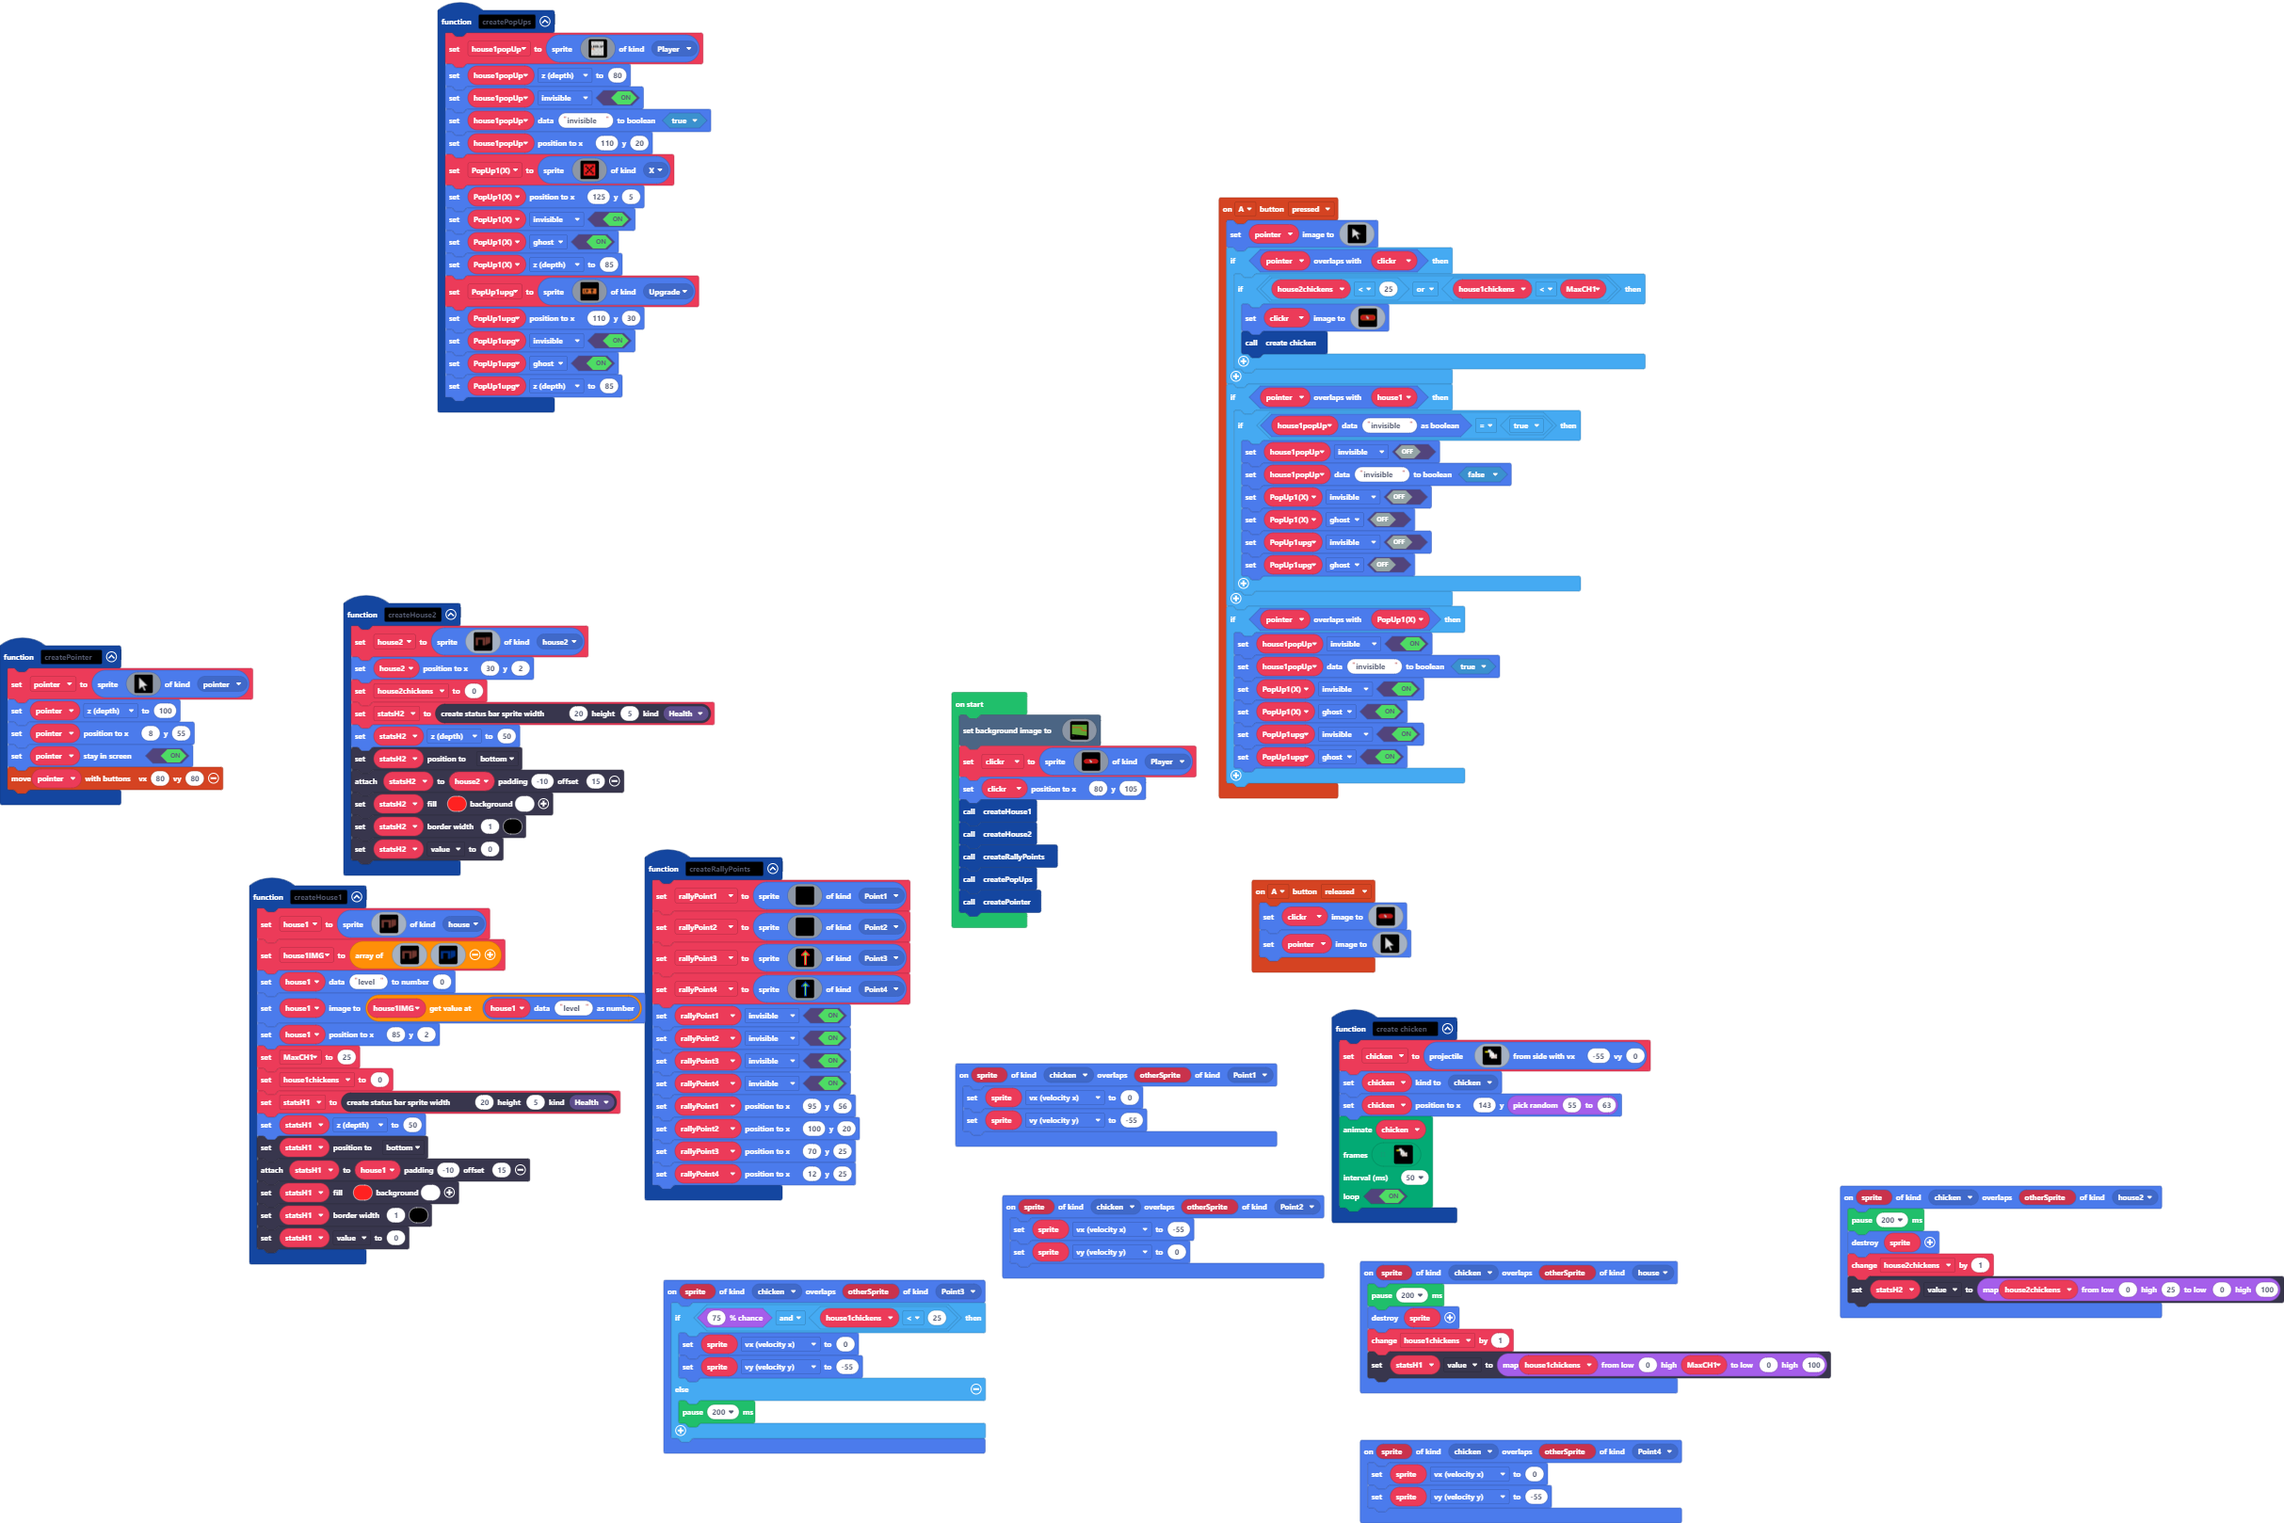
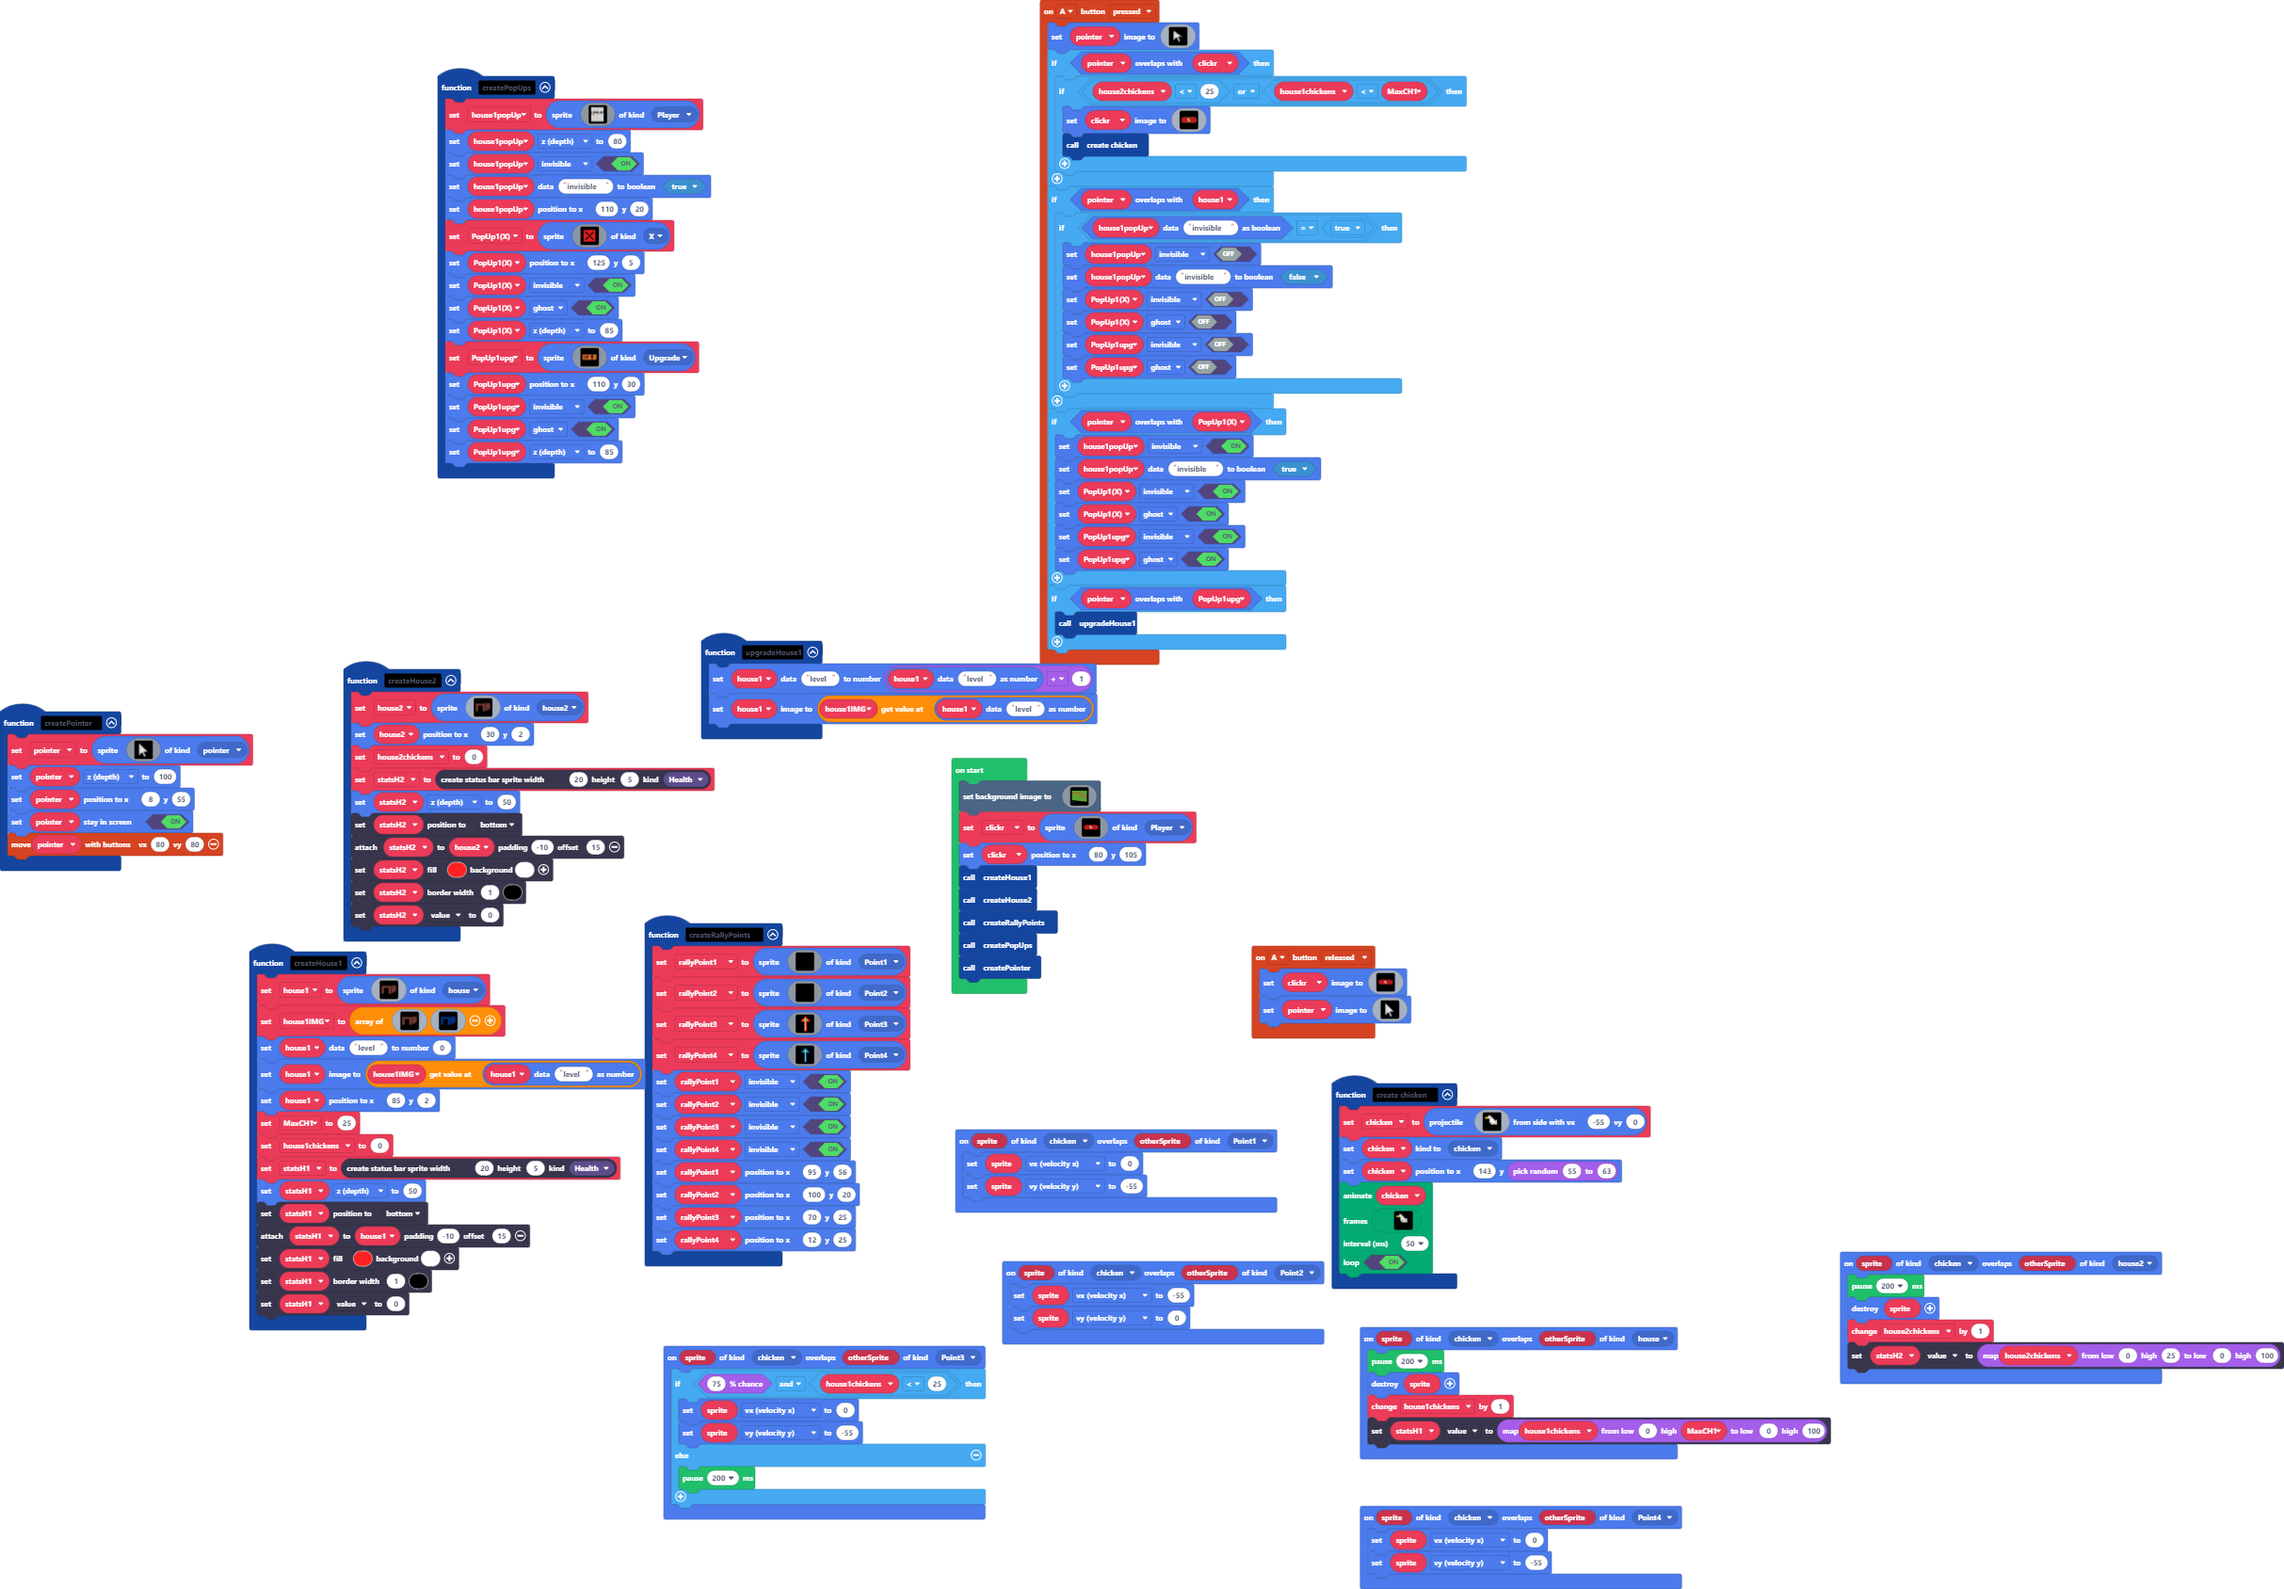
when you press upgrade, the house will now turn blue

Changed region(s): [[0.0927, 0.0, 1.0, 1.0], [0.1855, 0.0, 0.3092, 0.309], [0.0, 0.4017, 0.1237, 0.5562]]

diff --git a/main.ts b/main.ts
@@ -205,6 +205,9 @@ controller.A.onEvent(ControllerButtonEvent.Pressed, function () {
         PopUp1upg.setFlag(SpriteFlag.Invisible, true)
         PopUp1upg.setFlag(SpriteFlag.Ghost, true)
     }
+    if (pointer.overlapsWith(PopUp1upg)) {
+        upgradeHouse1()
+    }
 })
 function createRallyPoints () {
     rallyPoint1 = sprites.create(img`
@@ -552,6 +555,10 @@ sprites.onOverlap(SpriteKind.chicken, SpriteKind.Point3, function (sprite, other
         pause(200)
     }
 })
+function upgradeHouse1 () {
+    sprites.setDataNumber(house1, "level", sprites.readDataNumber(house1, "level") + 1)
+    house1.setImage(house1IMG[sprites.readDataNumber(house1, "level")])
+}
 sprites.onOverlap(SpriteKind.chicken, SpriteKind.Point1, function (sprite, otherSprite) {
     sprite.vx = 0
     sprite.vy = -55
